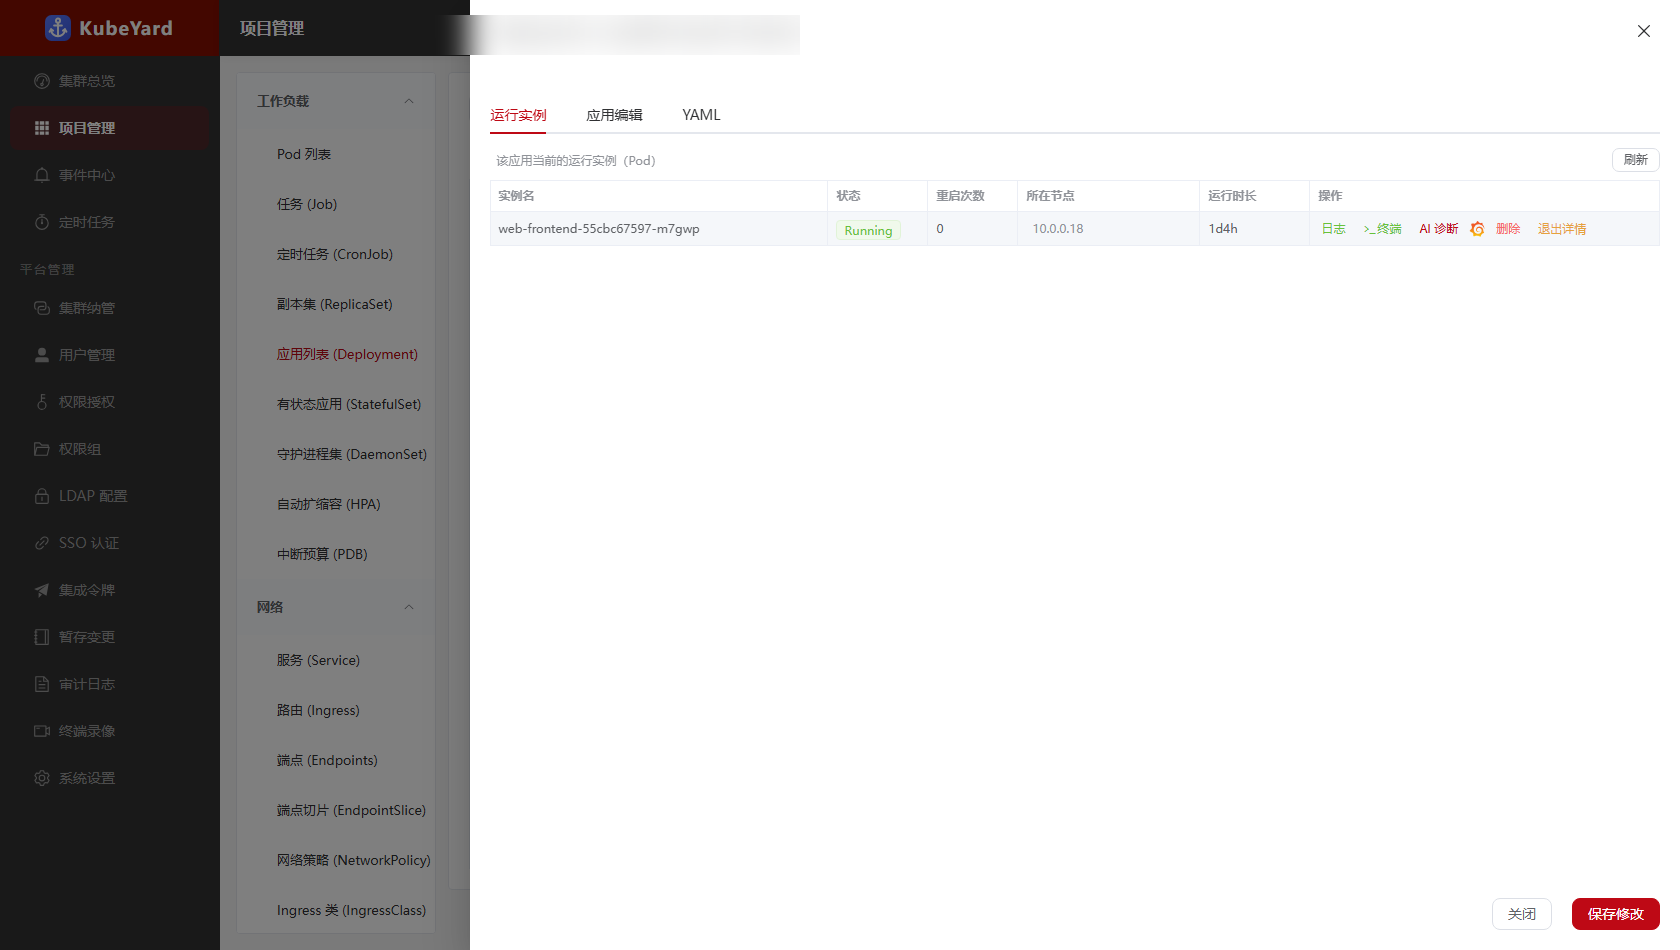
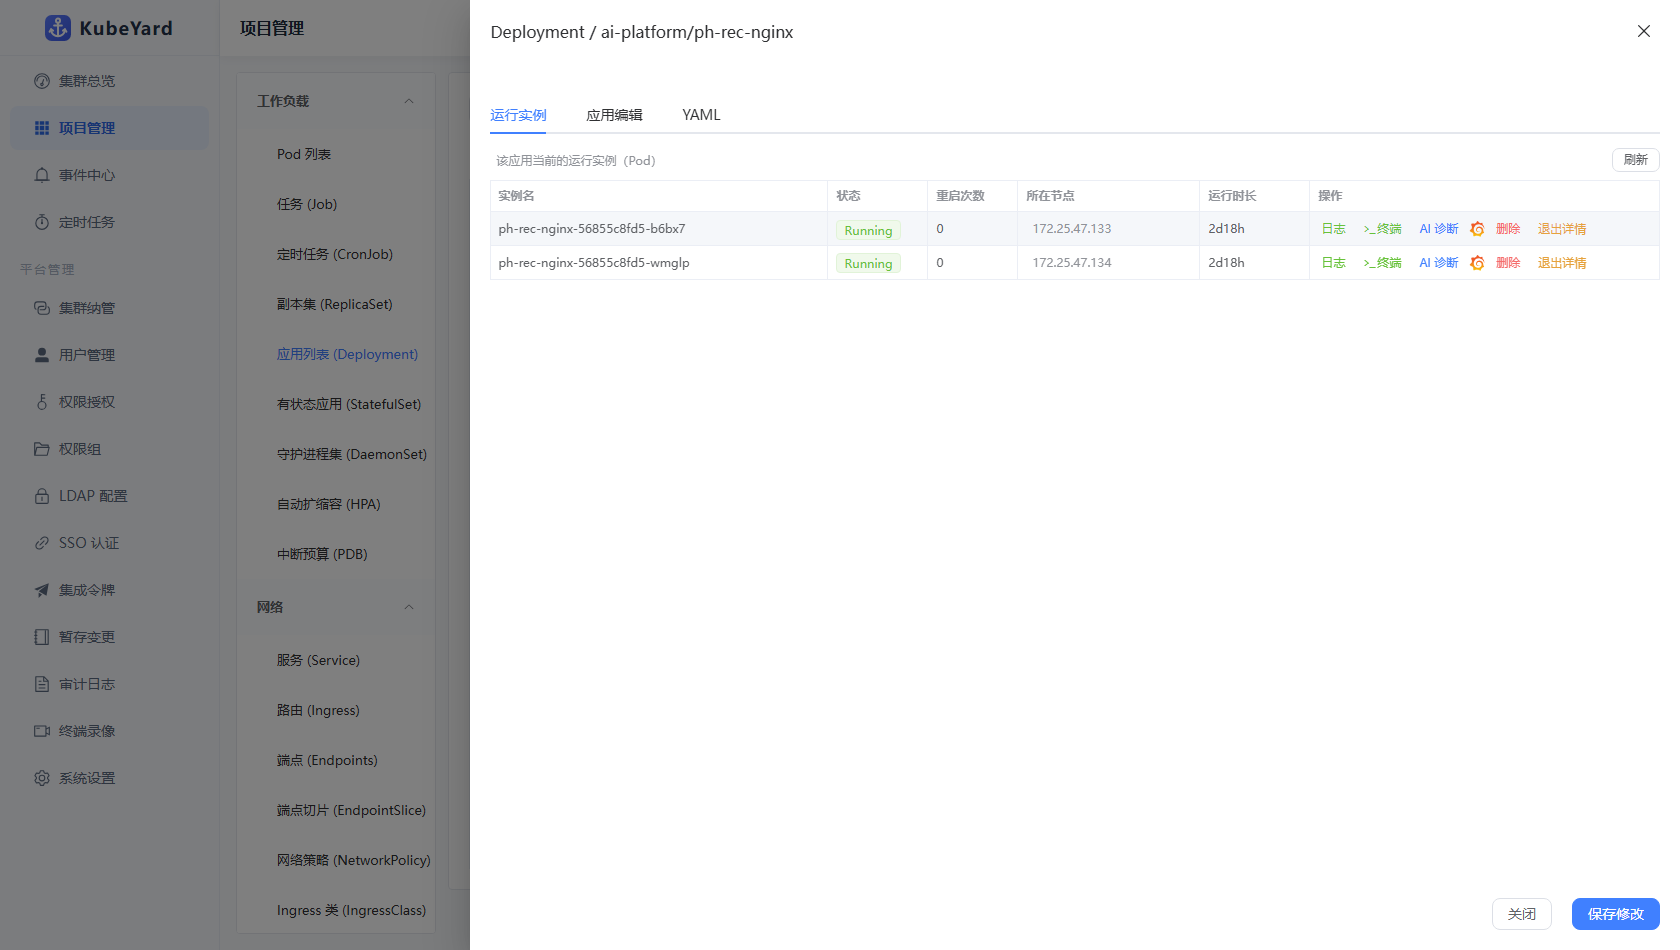
Make renewal portal URL configurable; switch screenshots to azure theme
- renewal.portal_url setting (System Settings > KV): expiry banners,
  notification links and perms drawer read it; empty = hide jump buttons
  and fall back to 'contact administrator' wording
- Notification copy no longer hardcodes any portal
- Screenshots re-taken with azure theme and fully synthetic data

diff --git a/web/src/components/MyPermsDrawer.vue b/web/src/components/MyPermsDrawer.vue
@@ -70,10 +70,10 @@
           权限 = 集群 × 命名空间 × 资源 × 动作；「可修改字段」仅在动作含 update 时生效。
           已过期条目仅失去效力、授权关系保留——联系管理员改期即可续授，无需重新配置。
         </div>
-        <!-- 存在到期/将到期条目：「统一权限门户」申请入口 -->
+        <!-- 存在到期/将到期条目：续期申请入口（可配置门户地址） -->
         <div v-if="hasExpiring" class="perms-renew">
-          <span>你有即将到期或已到期的权限/账号，请前往「统一权限门户」申请续期。</span>
-          <el-button size="small" type="warning" plain tag="a" href="https://portal.example.com" target="_blank" rel="noopener">前往统一权限门户申请</el-button>
+          <span>你有即将到期或已到期的权限/账号{{ renewalPortalUrl ? '，请前往统一权限门户申请续期' : '，请联系平台管理员申请续期' }}。</span>
+          <el-button v-if="renewalPortalUrl" size="small" type="warning" plain tag="a" :href="renewalPortalUrl" target="_blank" rel="noopener">前往统一权限门户申请</el-button>
         </div>
       </template>
       <el-empty v-else-if="!loading" description="暂无任何授权" />
@@ -82,7 +82,7 @@
 </template>
 
 <script setup lang="ts">
-import { computed, ref } from 'vue'
+import { computed, onMounted, ref } from 'vue'
 import { myGrants } from '../api'
 import { useAuthStore } from '../stores/auth'
 import { verbAliases, resourceAliases, actionLabelOf, expiryStateOf } from '../utils/grant'
@@ -112,7 +112,18 @@ function rowClass({ row }: any): string {
   return row.expires_at && expired(row.expires_at) ? 'perm-expired-row' : ''
 }
 
-// 是否存在到期/将到期（<7 天）条目 → 显示「统一权限门户」申请入口（有效期排除零值占位）
+// 续期门户地址（系统设置 renewal.portal_url）：配置了才显示跳转按钮
+const renewalPortalUrl = ref('')
+onMounted(async () => {
+  try {
+    const { getSettings } = await import('../api')
+    const m = (await getSettings()).data || {}
+    const u = String(m['renewal.portal_url'] || '').trim()
+    if (u) renewalPortalUrl.value = u
+  } catch { /* 读取失败不显示入口 */ }
+})
+
+// 是否存在到期/将到期（<7 天）条目 → 显示续期申请入口（有效期排除零值占位）
 const hasExpiring = computed(() => rows.value.some((r) => {
   if (!r.expires_at || !validDate(r.expires_at)) return false
   return expiryStateOf(r.expires_at) === 'expired' || expiryStateOf(r.expires_at) === 'soon'

diff --git a/web/src/views/Layout.vue b/web/src/views/Layout.vue
@@ -84,8 +84,8 @@
         >
           <template #default>
             <div class="expiry-action">
-              <span>如需继续使用，请前往「统一权限门户」重新申请权限；到期账号仍可登录平台。</span>
-              <el-button size="small" type="danger" plain tag="a" href="https://portal.example.com" target="_blank" rel="noopener">前往统一权限门户申请</el-button>
+              <span>如需继续使用，如需继续使用，请联系平台管理员申请权限续期；到期账号仍可登录平台。</span>
+              <el-button v-if="renewalPortalUrl" size="small" type="danger" plain tag="a" :href="renewalPortalUrl" target="_blank" rel="noopener">前往统一权限门户申请</el-button>
             </div>
           </template>
         </el-alert>
@@ -100,8 +100,8 @@
         >
           <template #default>
             <div class="expiry-action">
-              <span>到期后集群资源将不再显示；请前往「统一权限门户」申请权限续期。</span>
-              <el-button size="small" type="warning" plain tag="a" href="https://portal.example.com" target="_blank" rel="noopener">前往统一权限门户申请</el-button>
+              <span>到期后集群资源将不再显示；请联系平台管理员申请权限续期。</span>
+              <el-button v-if="renewalPortalUrl" size="small" type="warning" plain tag="a" :href="renewalPortalUrl" target="_blank" rel="noopener">前往统一权限门户申请</el-button>
             </div>
           </template>
         </el-alert>
@@ -159,6 +159,17 @@ const accountExpiringSoon = computed(() => {
 })
 const accountExpiringDate = computed(() =>
   auth.user?.expires_at ? new Date(auth.user.expires_at).toLocaleString('zh-CN', { hour12: false }) : '')
+
+// 续期门户地址（系统设置 renewal.portal_url，可空）：配置了才显示申请跳转按钮
+const renewalPortalUrl = ref('')
+onMounted(async () => {
+  try {
+    const { getSettings } = await import('../api')
+    const m = (await getSettings()).data || {}
+    const u = String(m['renewal.portal_url'] || '').trim()
+    if (u) renewalPortalUrl.value = u
+  } catch { /* 未登录或读取失败：不显示入口 */ }
+})
 
 // 刷新页面后重算管理员范围（localStorage 缓存兜底，保证路由守卫即时可用）
 onMounted(() => { auth.loadScope() })

diff --git a/web/src/views/admin/Settings.vue b/web/src/views/admin/Settings.vue
@@ -235,6 +235,18 @@
 
       <!-- ======================== 键值对 ======================== -->
       <el-tab-pane label="键值对" name="kv">
+        <!-- 续期门户：到期提醒的申请入口（空 = 前端不显示入口，文案回落为「联系管理员」） -->
+        <div class="section-title">续期门户</div>
+        <div class="preset-section-hint">
+          配置权限/账号到期提醒里的「申请续期」跳转地址（如企业统一权限门户）。
+          留空 = 前端只提示「联系平台管理员」，不显示跳转按钮。保存后对全站生效
+        </div>
+        <div class="kv-row">
+          <el-input v-model="renewalUrl" placeholder="https://portal.example.com" style="max-width: 480px" />
+          <el-button type="primary" :loading="renewalSaving" @click="saveRenewal">保存</el-button>
+        </div>
+        <el-divider style="margin: 18px 0" />
+        <div class="section-title">自定义键值对</div>
         <div v-for="(row, i) in rows" :key="i" class="kv-row">
           <el-input v-model="row.key" placeholder="键" style="width: 240px" />
           <el-input v-model="row.value" placeholder="值" />
@@ -563,6 +575,24 @@ async function doTestAI() {
 // ---------- 键值对 ----------
 const rows = ref<{ key: string; value: string }[]>([])
 const saving = ref(false)
+// 续期门户地址（renewal.portal_url）：到期提醒的申请入口
+const renewalUrl = ref('')
+const renewalSaving = ref(false)
+async function loadRenewal() {
+  try {
+    const m = (await getSettings()).data || {}
+    renewalUrl.value = String(m['renewal.portal_url'] || '')
+  } catch { /* 忽略 */ }
+}
+async function saveRenewal() {
+  renewalSaving.value = true
+  try {
+    await putSettings({ 'renewal.portal_url': renewalUrl.value.trim() })
+    ElMessage.success('续期门户已保存')
+  } catch (e) {
+    ElMessage.error(errMsg(e))
+  } finally { renewalSaving.value = false }
+}
 
 async function load() {
   try {

diff --git a/web/src/components/NoticeBell.vue b/web/src/components/NoticeBell.vue
@@ -21,8 +21,8 @@
             <span class="unread-dot" v-if="!n.read_at"></span>{{ n.title }}
           </div>
           <div class="notice-content">{{ n.content }}</div>
-          <!-- 到期预警：给出「统一权限门户」申请入口（点击不触发已读外的其他行为） -->
-          <a v-if="isExpiring(n.type)" class="notice-link" href="https://portal.example.com" target="_blank" rel="noopener" @click.stop>
+          <!-- 到期预警：续期入口（系统设置配置了 renewal.portal_url 才显示） -->
+          <a v-if="isExpiring(n.type) && renewalPortalUrl" class="notice-link" :href="renewalPortalUrl" target="_blank" rel="noopener" @click.stop>
             前往统一权限门户申请 →
           </a>
           <div class="notice-time dim">{{ fmtTime(n.created_at) }}</div>
@@ -54,10 +54,21 @@ function metaOf(t: string) {
   return typeMeta[t] || { icon: 'InfoFilled', color: 'var(--el-color-info)' }
 }
 
-// 到期预警类消息（授权/权限组/账号）显示「统一权限门户」申请跳转
+// 到期预警类消息（授权/权限组/账号）：配置了续期门户时显示跳转
 function isExpiring(t: string): boolean {
   return t === 'grant_expiring' || t === 'account_expiring'
 }
+
+// 续期门户地址（系统设置 renewal.portal_url，可空）：空 = 不显示跳转
+const renewalPortalUrl = ref('')
+onMounted(async () => {
+  try {
+    const { getSettings } = await import('../api')
+    const m = (await getSettings()).data || {}
+    const u = String(m['renewal.portal_url'] || '').trim()
+    if (u) renewalPortalUrl.value = u
+  } catch { /* 读取失败不显示入口 */ }
+})
 
 async function load() {
   loading.value = true

diff --git a/server/internal/notify/notify.go b/server/internal/notify/notify.go
@@ -4,6 +4,7 @@ import (
 	"log"
 	"math"
 	"strconv"
+	"strings"
 	"time"
 
 	"gorm.io/gorm"
@@ -19,10 +20,10 @@ import (
 
 // 消息类型（前端按类型渲染图标）
 const (
-	TypeGrantAdded     = "grant_added"     // 权限新增（直接授权 / 加入权限组）
-	TypeGrantRemoved   = "grant_removed"   // 权限移除（直接授权撤销 / 移出权限组）
-	TypeGrantRenewed   = "grant_renewed"   // 权限续期（覆盖续授 / 成员时限延长 / 账号续期）
-	TypeGrantExpiring  = "grant_expiring"  // 授权/组权限即将到期（<7 天，扫描生成）
+	TypeGrantAdded      = "grant_added"      // 权限新增（直接授权 / 加入权限组）
+	TypeGrantRemoved    = "grant_removed"    // 权限移除（直接授权撤销 / 移出权限组）
+	TypeGrantRenewed    = "grant_renewed"    // 权限续期（覆盖续授 / 成员时限延长 / 账号续期）
+	TypeGrantExpiring   = "grant_expiring"   // 授权/组权限即将到期（<7 天，扫描生成）
 	TypeAccountExpiring = "account_expiring" // 账号即将到期（<7 天，扫描生成）
 )
 
@@ -72,6 +73,16 @@ func daysLeft(t time.Time, now time.Time) int {
 		return 1
 	}
 	return d
+}
+
+// renewalPortalHint 续期引导文案：管理端配置了 renewal.portal_url 则引导跳转，
+// 未配置则只提示联系管理员（开源部署默认无此配置）
+func renewalPortalHint(db *gorm.DB) string {
+	var s model.Setting
+	if err := db.Where("`key` = ?", "renewal.portal_url").First(&s).Error; err == nil && strings.TrimSpace(s.Value) != "" {
+		return "请及时到统一权限门户（" + strings.TrimSpace(s.Value) + "）申请续期"
+	}
+	return "请及时联系平台管理员申请续期"
 }
 
 // ScanExpiring 到期预警扫描（后台每小时调用）：
@@ -132,7 +143,7 @@ func ScanExpiring(db *gorm.DB) {
 			":" + g.Namespace + ":" + g.Resource + ":" + g.Verb + ":" + g.Actions + ":" + strconv.FormatInt(g.ExpiresAt.Unix(), 10)
 		push(db, human, g.UserID, TypeGrantExpiring, "授权即将到期",
 			"集群 "+clusterOf(g.ClusterID)+" / 命名空间 "+orStar(g.Namespace)+" / "+orStar(g.Resource)+
-				" 将于 "+strconv.Itoa(daysLeft(*g.ExpiresAt, now))+" 天后（"+g.ExpiresAt.Format("01-02 15:04")+"）到期，请及时到统一权限门户（portal.example.com）申请续期", &dedup)
+				" 将于 "+strconv.Itoa(daysLeft(*g.ExpiresAt, now))+" 天后（"+g.ExpiresAt.Format("01-02 15:04")+"）到期，"+renewalPortalHint(db), &dedup)
 	}
 
 	// 权限组成员关系（到期 = 整组权限失效）
@@ -154,7 +165,7 @@ func ScanExpiring(db *gorm.DB) {
 			":" + strconv.FormatInt(m.ExpiresAt.Unix(), 10)
 		push(db, human, m.UserID, TypeGrantExpiring, "权限组权限即将到期",
 			"权限组「"+name+"」的成员时限将于 "+strconv.Itoa(daysLeft(*m.ExpiresAt, now))+" 天后（"+m.ExpiresAt.Format("01-02 15:04")+
-				"）到期，届时整组权限自动失效，请及时到统一权限门户（portal.example.com）申请续期", &dedup)
+				"）到期，届时整组权限自动失效，"+renewalPortalHint(db), &dedup)
 	}
 
 	// 账号有效期（与 Layout 黄横幅互补，铃铛里留一条记录）
@@ -162,7 +173,7 @@ func ScanExpiring(db *gorm.DB) {
 		dedup := "exp:u:" + strconv.FormatUint(uint64(u.ID), 10) + ":" + strconv.FormatInt(u.ExpiresAt.Unix(), 10)
 		push(db, human, u.ID, TypeAccountExpiring, "账号即将到期",
 			"你的账号将于 "+strconv.Itoa(daysLeft(*u.ExpiresAt, now))+" 天后（"+u.ExpiresAt.Format("2006-01-02")+"）到期，"+
-				"到期后集群资源将不再显示，请及时到统一权限门户（portal.example.com）申请续期", &dedup)
+				"到期后集群资源将不再显示，"+renewalPortalHint(db), &dedup)
 	}
 
 	// 消息清理：已读 30 天、未读 90 天；顺带清 AI 用量留痕（>90 天，配额只看当天）
